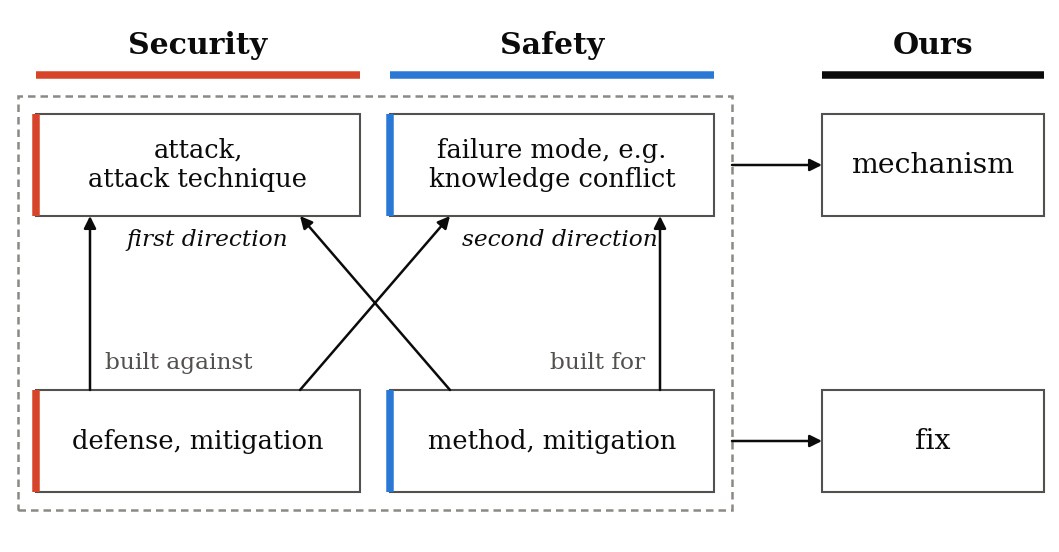
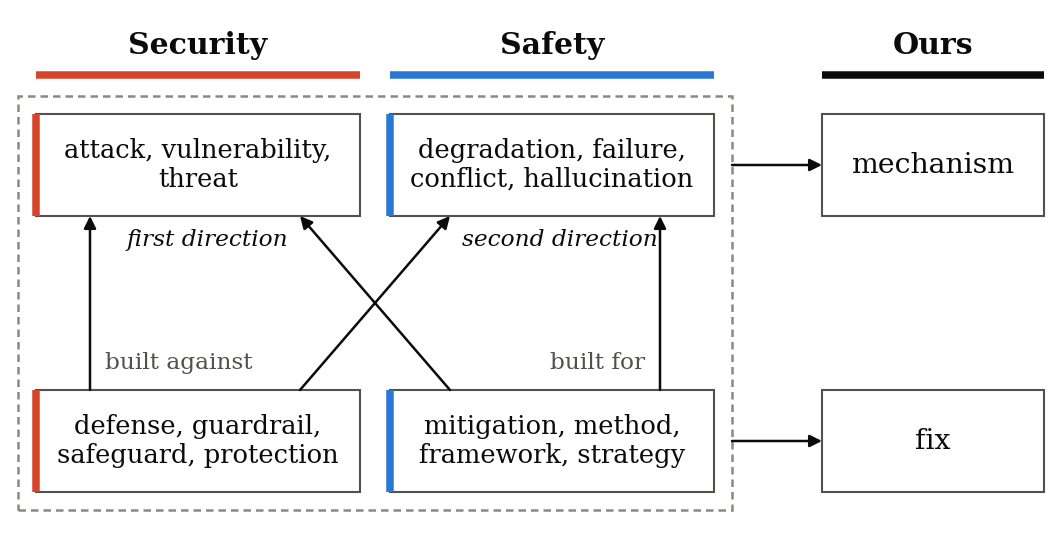
Fig. 1: list each community's words for the content and the countermeasure

diff --git a/latex/sections/02-background.tex b/latex/sections/02-background.tex
@@ -28,7 +28,7 @@ not be trusted and the bottom row the countermeasure, first in each
 community's own words and then in ours. Each community builds its
 countermeasure for its own content. Our experiments cross the two: in the
 first direction a safety method meets an attack, and in the second a
-security defense meets a safety failure mode (Section~\ref{sec:results}).}
+security defense meets a safety failure (Section~\ref{sec:results}).}
 \label{fig:vocab}
 \end{figure}
 
@@ -70,10 +70,12 @@ stop supporting the right answer, and \emph{fix} for anything meant to keep
 it supporting that answer, whatever either one's authors call it. We use these two words wherever a statement spans both regimes: the corpus
 as a whole, a pair whose two sides come from different regimes, and the
 campaign. A statement about one regime alone may keep that regime's own
-words from Figure~\ref{fig:vocab}. Security calls the content an attack and
-the countermeasure a defense. Safety has no single word for the content: it
-names the failure mode itself, such as knowledge conflict or noisy context,
-and calls the countermeasure a method. Safety papers rarely say \emph{fix},
+words from Figure~\ref{fig:vocab}. Security calls the content an attack, a
+vulnerability or a threat, and the countermeasure a defense, guardrail,
+safeguard or protection. Safety has no single word for the content: it speaks
+of degradation, failure, conflict or hallucination, and often names the
+failure itself, such as knowledge conflict or noisy context. It calls the
+countermeasure a mitigation, method, framework or strategy. Safety papers rarely say \emph{fix},
 and use \emph{mechanism} mostly for a part of the model, such as an attention
 mechanism, so in the sense used here both words are ours.
 

diff --git a/scripts/gen_paper_figures.py b/scripts/gen_paper_figures.py
@@ -822,9 +822,9 @@ def fig_vocab():
     countermeasure, which countermeasure each builds against which content,
     the two directions our experiments cross, and the one pair of words this
     paper uses across both. Names no method, since none has been introduced
-    where it sits. The safety column is the safety abstracts' usage: they name
-    the failure mode and call the countermeasure a method; "fix" and
-    "mechanism" in that sense are ours."""
+    where it sits. The words in each community's boxes are among the most
+    frequent in that regime's titles and abstracts (checked 2026-11-05), chosen
+    by the lead; "fix" and "mechanism" in our sense are ours."""
     W, H = COL, 1.80
     fig = plt.figure(figsize=(W, H))
     ax = fig.add_axes([0, 0, 1, 1])
@@ -846,10 +846,10 @@ def fig_vocab():
         ax.plot([x0, x0 + w], [H - 0.23, H - 0.23], color=col, lw=1.8,
                 solid_capstyle="butt")
 
-    _box(ax, xs, y1, cw, h, "attack,\nattack technique", accent=TRACK_SEC, fs=6.2)
-    _box(ax, xf, y1, cw, h, "failure mode, e.g.\nknowledge conflict", accent=TRACK_ML, fs=6.2)
-    _box(ax, xs, y2, cw, h, "defense, mitigation", accent=TRACK_SEC, fs=6.2)
-    _box(ax, xf, y2, cw, h, "method, mitigation", accent=TRACK_ML, fs=6.2)
+    _box(ax, xs, y1, cw, h, "attack, vulnerability,\nthreat", accent=TRACK_SEC, fs=6.2)
+    _box(ax, xf, y1, cw, h, "degradation, failure,\nconflict, hallucination", accent=TRACK_ML, fs=6.2)
+    _box(ax, xs, y2, cw, h, "defense, guardrail,\nsafeguard, protection", accent=TRACK_SEC, fs=6.2)
+    _box(ax, xf, y2, cw, h, "mitigation, method,\nframework, strategy", accent=TRACK_ML, fs=6.2)
 
     # each countermeasure is built for its own column's content
     top, bot = y2 + h, y1
